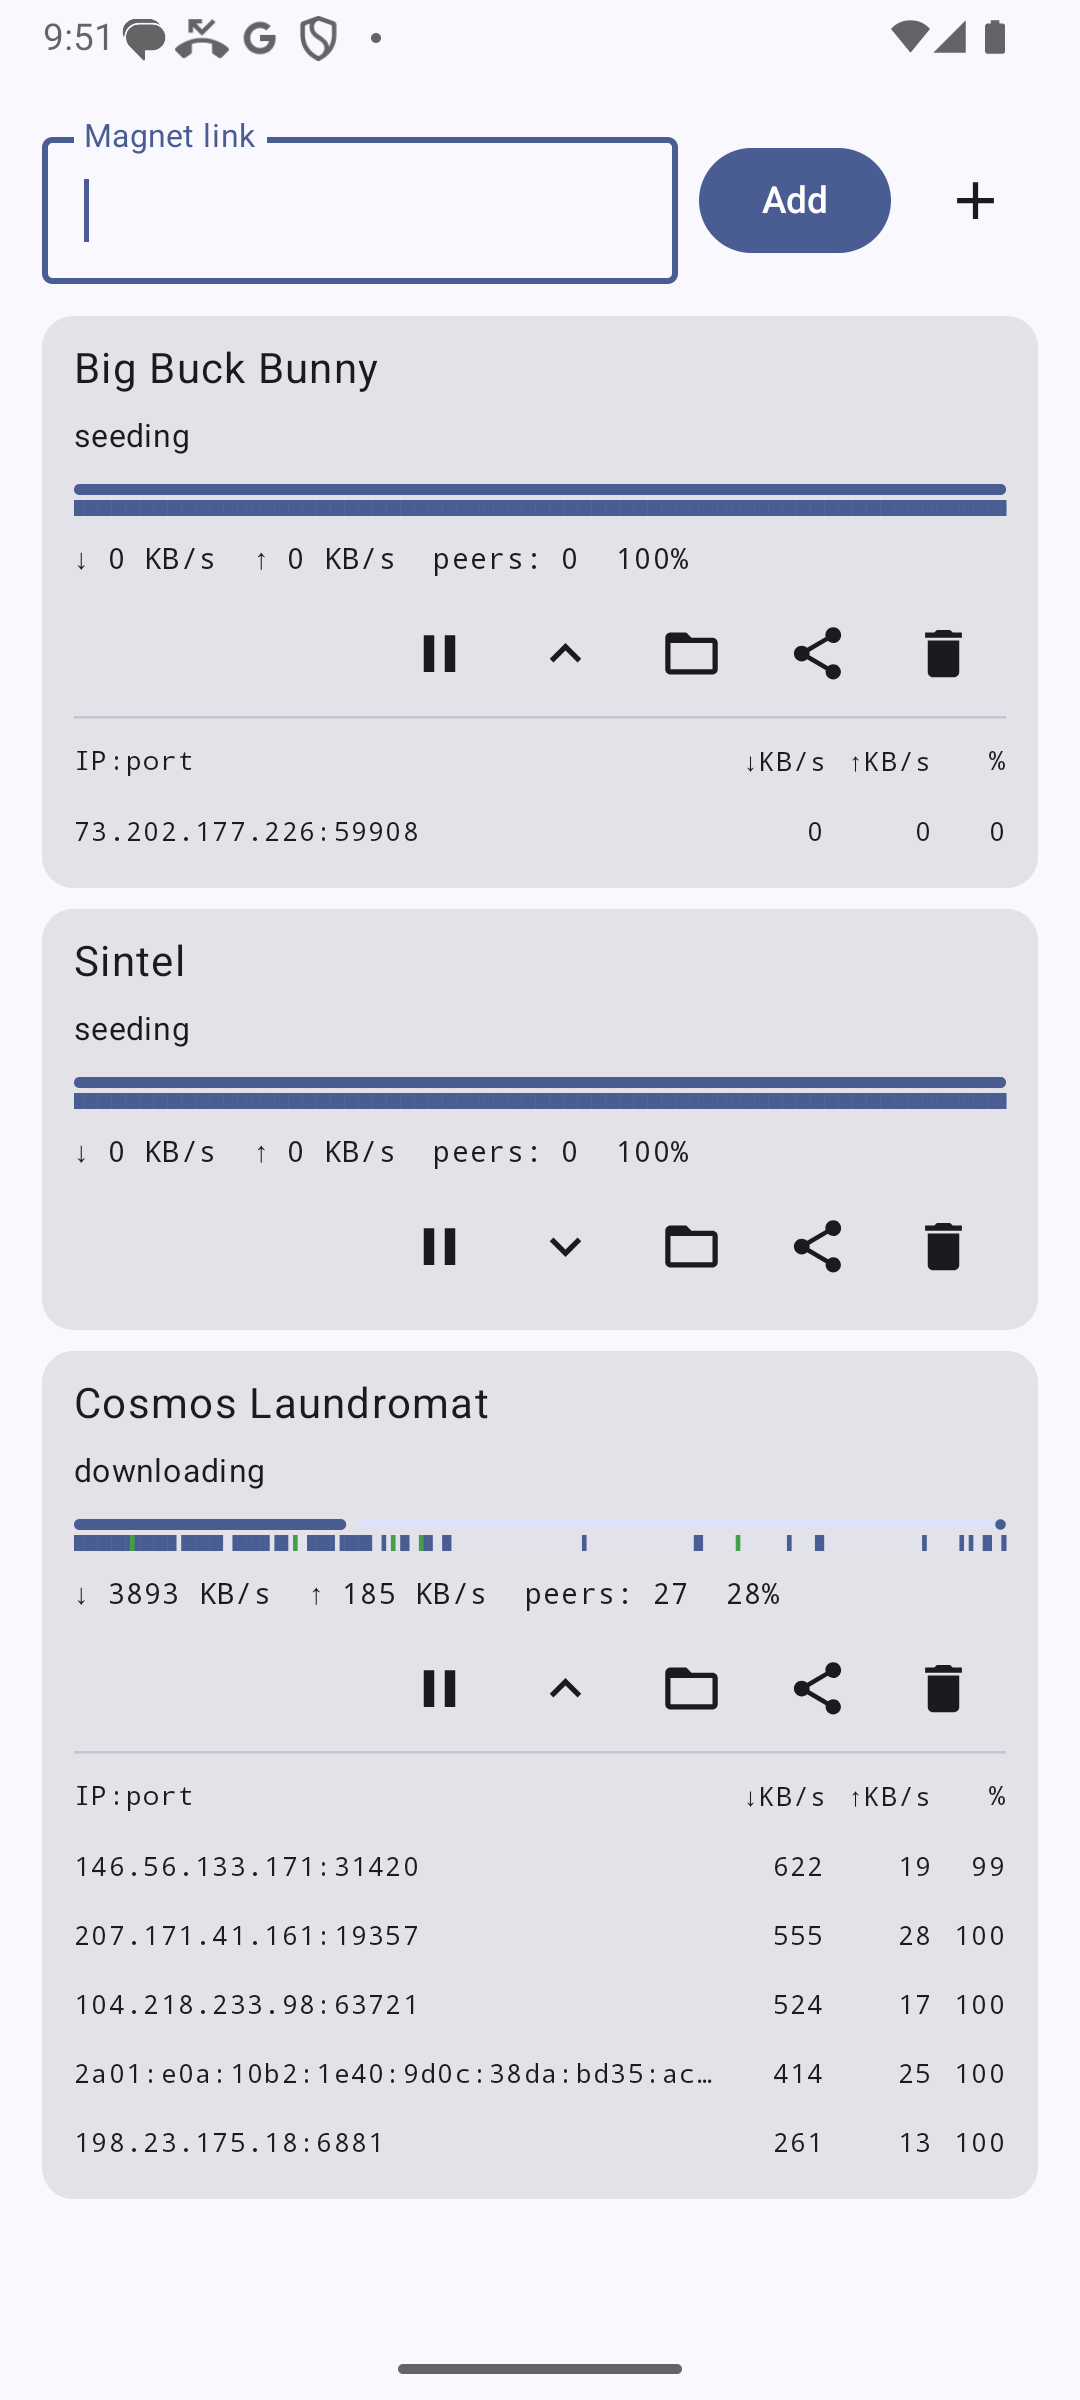
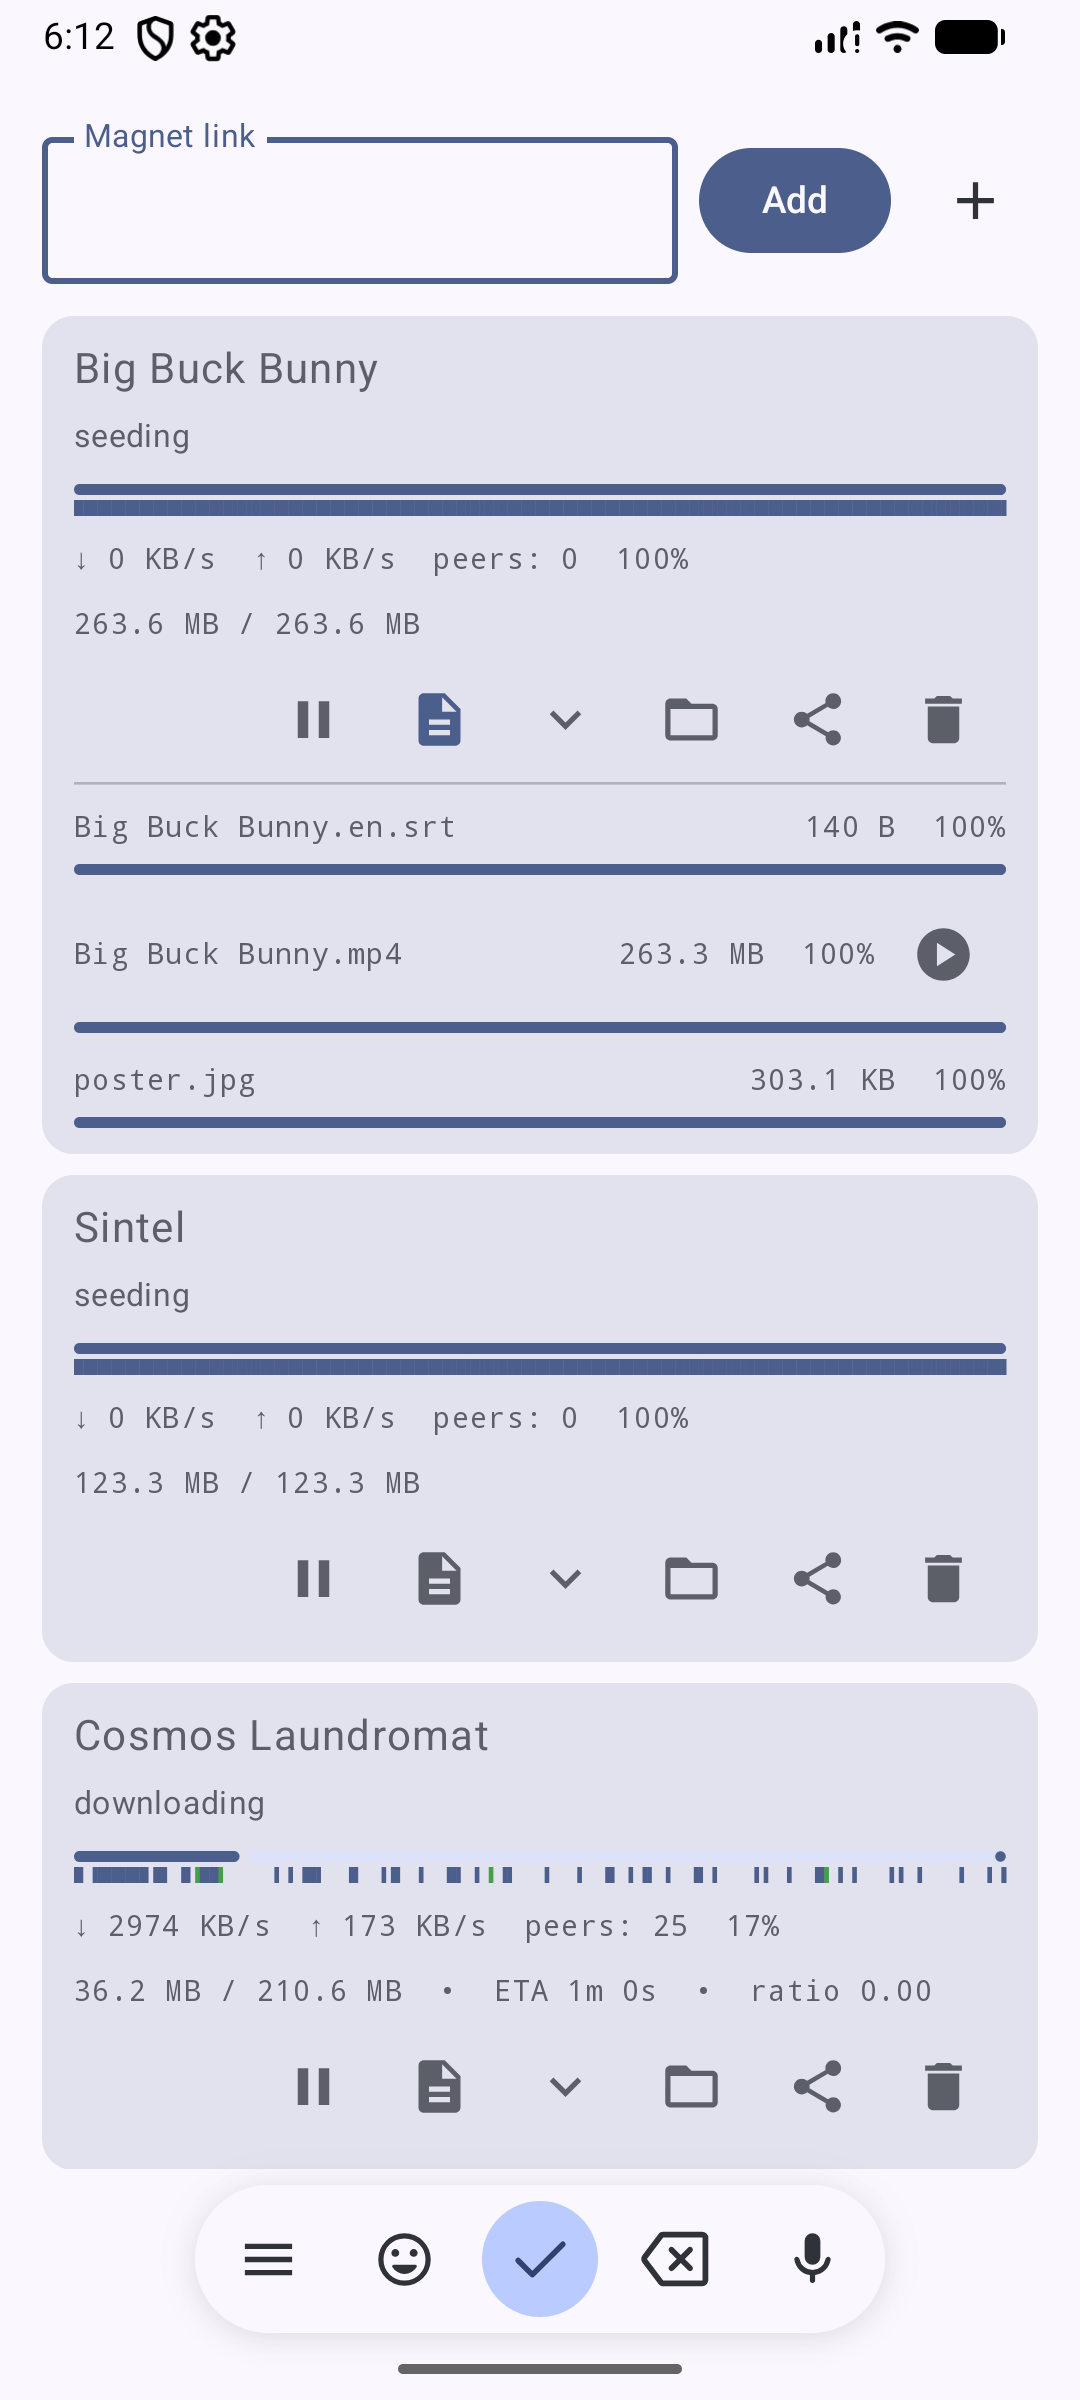
Update README screenshot: file list, Play button, ETA, ratio, active download

diff --git a/README.md b/README.md
@@ -24,9 +24,9 @@ https://github.com/user-attachments/assets/6182efdb-9862-47ee-9fa7-011a64ee87eb
 
 ## Screenshots
 
-| Torrent list with live download |
+| Torrent list with file list expanded and active download |
 |---|
-| <img src="screenshots/main.png" width="320" alt="Torrent list showing Big Buck Bunny and Sintel seeding, and Cosmos Laundromat downloading at 3.8 MB/s with 27 peers and live peer table"> |
+| <img src="screenshots/main.png" width="320" alt="Torrent list: Big Buck Bunny seeding with file list expanded showing Play button on the mp4, Sintel seeding, and Cosmos Laundromat downloading at 2.9 MB/s with 25 peers, ETA and ratio"> |
 
 ## Technical Stack
 
